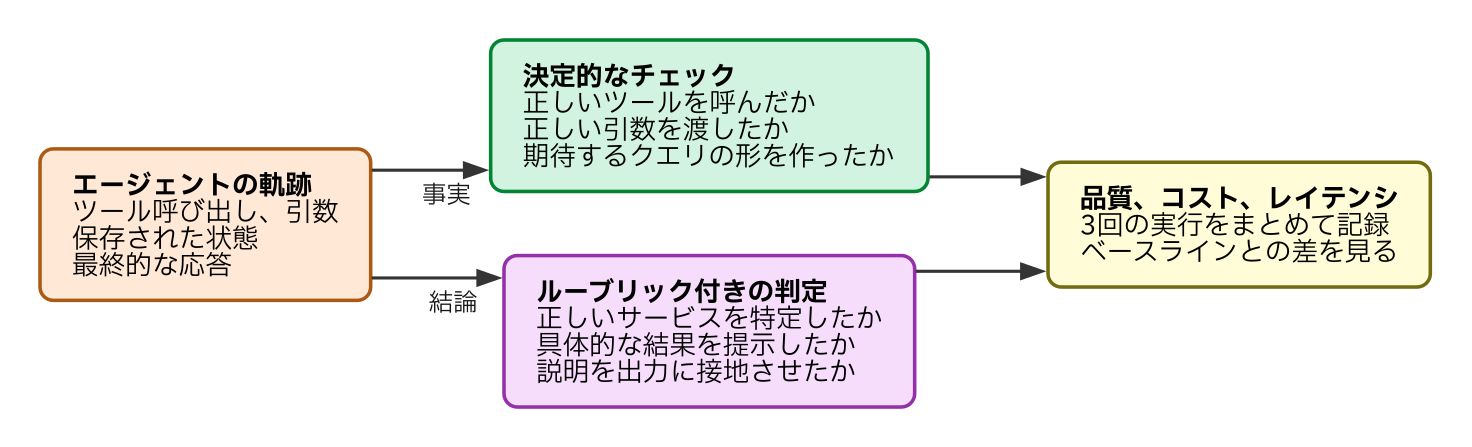
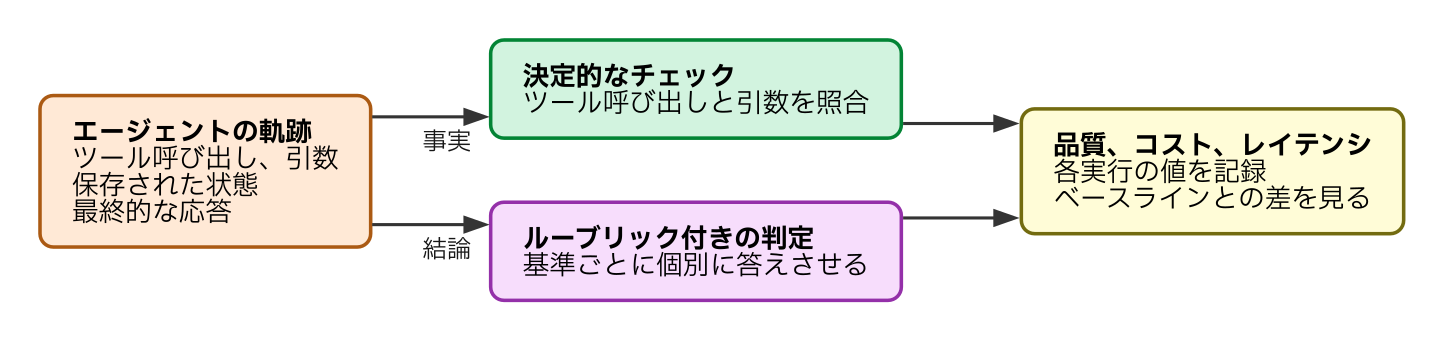
fix(articles): 査読で挙がった軽微な指摘を反映する
R-14 複数段落の引用を原文の段落で分割。R-15 gcx記事を素材4本として本文から帰属。
R-16 直訳語を平易化(接地/正本/判定不能/有界/継続点)。R-17 規範の禁止語を置換
(帰結/参照点/既定/推論エンジン)。R-18 結論型見出し3件を体言止めへ。
R-19 段落結論の太字ラベル7件を地の文へ。R-20 図のノードを規範の1〜2行へ縮め、
tool-facade を縦組みにして1898px→936px。R-21 3回を固定回数に見せる記述を一般化。
R-22 Evaluate/Learn/Change を3段落に分割、重複と締めの言い直しを圧縮。

記事1は9,232字、記事2は18,525字。引用23件すべて逐語一致。図5枚は機械チェックと目視を通過。

Changed region(s): [[0.0, 0.0588, 0.9965, 0.9412]]

diff --git a/articles/20261002-what-made-agents-better.md b/articles/20261002-what-made-agents-better.md
@@ -14,9 +14,9 @@ published: false
 
 前編は Assistant 全般の評価ループを扱いました。この記事はインシデント調査用の評価事例を扱います。評価の考え方は共通しますが、同じ評価基盤やデータセットだと公開資料から確認できるわけではありません。
 
-素材にするのは Grafana Labs のエンジニアが公式のエンジニアリングブログに書いた3本の記事です。[Enter the arena](https://medium.com/grafana-labs/enter-the-arena-evaluating-and-improving-grafana-assistant-investigations-against-real-incidents-d0a813404ad2)（William Dumont、2026年7月15日）、[Inside the harness](https://medium.com/grafana-labs/inside-the-harness-how-grafana-assistant-investigates-incidents-9a982b8ff01d)（Alexander Sniffin、2026年6月9日）、[Progressive tool discovery](https://medium.com/grafana-labs/progressive-tool-discovery-battling-tool-overload-in-ai-agents-418fb0b4cd76)（Cyril Tovena、2026年8月27日）。加えて、公開されているベンチマークのリーダーボードを筆者が集計した結果を1つ挟みます。
+主に参照するのは、Grafana Labs のエンジニアが公式のエンジニアリングブログに書いた4本の署名記事です。[Enter the arena](https://medium.com/grafana-labs/enter-the-arena-evaluating-and-improving-grafana-assistant-investigations-against-real-incidents-d0a813404ad2)（William Dumont、2026年7月15日）、[Inside the harness](https://medium.com/grafana-labs/inside-the-harness-how-grafana-assistant-investigates-incidents-9a982b8ff01d)（Alexander Sniffin、2026年6月9日）、[Progressive tool discovery](https://medium.com/grafana-labs/progressive-tool-discovery-battling-tool-overload-in-ai-agents-418fb0b4cd76)（Cyril Tovena、2026年8月27日）、[CLIs in the age of agents](https://medium.com/grafana-labs/clis-in-the-age-of-agents-how-we-designed-gcx-cdfca8954b30)（Ward Bekker、2026年7月28日）。加えて、公開されているベンチマークのリーダーボードを筆者が集計した結果を1つ挟みます。
 
-## 合成環境は通り続けた
+## 合成環境と実インシデントの差
 
 [Grafana Assistant Investigations](https://grafana.com/docs/grafana-cloud/machine-learning/assistant/) は、インシデントの根本原因の候補を出すエージェントです。発火したアラートを読み、テレメトリーを問い合わせ、見つけたものを相関させ、原因を提案します。オンコールのエンジニアがやることと同じ手順です。
 
@@ -70,11 +70,11 @@ published: false
 
 **ツールセット**。全部のツールを与えた状態から、個別のツールを意図的に取り除いていきます。これで分かるのは、そのツールが有用かどうかだけではありません。エージェントがそのツールに過度に依存していないか、それとも他の証拠源を組み合わせて適応できるのかが見えます。メトリクスのツールを取り上げると、エージェントはログとトレースとプロファイルに頼らざるを得なくなり、単一の信号にどれだけ依存していたかが表に出ます。
 
-**モデル**。背後のモデルを小さく速いものから大きく高性能なものまで変え、それぞれに与える思考の予算も変えます。これで、より強い推論エンジンを与えたことによる改善と、より良いプロンプトや道具立てによる改善を切り分けられます。
+**モデル**。背後のモデルを小さく速いものから大きく高性能なものまで変え、それぞれに与える思考の予算も変えます。これで、より強い推論能力を与えたことによる改善と、より良いプロンプトや道具立てによる改善を切り分けられます。
 
 **プロンプト**。システムプロンプトとツールごとの説明文の改訂版を並べて比較します。小さな言い回しの変更が、エージェントの振る舞いに驚くほど大きな影響を与えることがあります。どのツールを選ぶか、どれだけ自信を持って結論を引き出すか、手元の証拠が不十分だといつ判断するか。同じインシデントに対してプロンプトの変種を走らせれば、その振る舞いの変化を直接測れます。
 
-**外部のエージェント**。参照点として、汎用のコーディングエージェントを3つの経路で Grafana Cloud に接続して参加させています。[Grafana MCP サーバー](https://github.com/grafana/mcp-grafana)経由、[gcx](https://github.com/grafana/gcx) コマンドラインツール経由、そしてHTTPを直接呼ぶ経路です。
+**外部のエージェント**。比較の基準として、汎用のコーディングエージェントを3つの経路で Grafana Cloud に接続して参加させています。[Grafana MCP サーバー](https://github.com/grafana/mcp-grafana)経由、[gcx](https://github.com/grafana/gcx) コマンドラインツール経由、そしてHTTPを直接呼ぶ経路です。
 
 この最後の1つの位置づけが率直です。外部のエージェントは有用な上限を与える。そのどれかが自社のエージェントが見落としたものを見つけたなら、その差はモデルにあるのではなく自分たちのビルドにある、と書かれています。
 
@@ -90,17 +90,17 @@ published: false
 
 何が見つかったのか、具体的な発見が4つ挙げられています。
 
-**出発点が間違っていた**。ほとんどの調査は発火したアラートから始まりますが、初期のビルドはアラートの名前から問題を推測しようとしていました。その推測が以降のすべての方向を決めてしまい、しかもしばしば間違っています。そこでアラートの定義を取得して、実際にそれを発火させたクエリを読むツールを追加しました。調査がラベルではなく発火条件から始まるようになります。
+ほとんどの調査は発火したアラートから始まりますが、初期のビルドはアラートの名前から問題を推測しようとしていました。その推測が以降のすべての方向を決めてしまい、しかもしばしば間違っています。そこでアラートの定義を取得して、実際にそれを発火させたクエリを読むツールを追加しました。調査がラベルではなく発火条件から始まるようになります。
 
-**ほとんど呼ばれないツールがあった**。あるクエリのツールがほぼ呼ばれていませんでした。調べると、その使用ガイドが別のツールからコピーされたまま適応されておらず、間違ったクエリ言語を説明していたのです。エージェントは矛盾した仕様を受け取り、そのツールを避けていました。ガイドを直すと、その種類の信号が調査に戻ってきました。記事はここから一般化を引き出しています。
+あるクエリのツールがほぼ呼ばれていませんでした。調べると、その使用ガイドが別のツールからコピーされたまま適応されておらず、間違ったクエリ言語を説明していたのです。エージェントは矛盾した仕様を受け取り、そのツールを避けていました。ガイドを直すと、その種類の信号が調査に戻ってきました。記事はここから一般化を引き出しています。
 
 > Much of the work in a tool is the schema and the description, not the handler.
 >
 > （ツールにおける仕事の多くは、スキーマと説明文であって、ハンドラではない）
 
-**取得したコンテキストが多すぎた**。エージェントはインフラの背景情報を検索で引いてきますが、その生の結果は大きく、関連度も不均一でした。全部を調査に流し込むとトークンを消費し、さらに悪いことに、無関係な事実がエージェントを本筋から逸らします。対策として、小さく安いモデルの呼び出しを1つ挟み、取得した記憶を現在のインシデントに関連する分だけに絞り込んでから主たるコンテキストへ渡すようにしました。トークンの消費が下がり、コンテキストの汚染も減って、調査が安定しました。
+エージェントはインフラの背景情報を検索で引いてきますが、その生の結果は大きく、関連度も不均一でした。全部を調査に流し込むとトークンを消費し、さらに悪いことに、無関係な事実がエージェントを本筋から逸らします。対策として、小さく安いモデルの呼び出しを1つ挟み、取得した記憶を現在のインシデントに関連する分だけに絞り込んでから主たるコンテキストへ渡すようにしました。トークンの消費が下がり、コンテキストの汚染も減って、調査が安定しました。
 
-**部分的なデータで無根拠な結論を出していた**。ケースに欠損があると、弱いビルドはデータが支持しない断定でそれを埋める傾向がありました。結論できないことを述べるようエージェントに求めるプロンプトの変更と、その振る舞いを評価するグレーダーの組み合わせで軽減しましたが、消えてはいません。
+ケースに欠損があると、弱いビルドはデータが支持しない断定でそれを埋める傾向がありました。結論できないことを述べるようエージェントに求めるプロンプトの変更と、その振る舞いを評価するグレーダーの組み合わせで軽減しましたが、消えてはいません。
 
 そして冒頭の主張を補強する観察が置かれています。
 
@@ -136,7 +136,7 @@ Opus 4.7 と 4.6 では、推論を切ったほうが一貫性が高く、しか
 
 この公開ベンチマークの掲載結果では、推論を高にしたほうが Pass^3 の低いモデルも、高いモデルもありました。推論設定ごとに品質と費用を測る必要があります。ただし、この比較からモデルの大きさの効果や、前節で見たツールとプロンプトの変更の寄与は分かりません。
 
-## 指示ではなく構造で縛る
+## 指示ではなく構造による強制
 
 ツールとプロンプトが改善に寄与すると分かったら、次はそれを動かすハーネスの設計です。ここからは2026年6月の記事に戻って、Assistant Investigations のハーネスを書いたエンジニアの説明を見ます。
 
@@ -150,21 +150,25 @@ Opus 4.7 と 4.6 では、推論を切ったほうが一貫性が高く、しか
 
 対策として選ばれた役割分担が、この節の要点になります。モデルが推論を行い、ハーネスがループを所有する。ハーネスが握るのは、何がコンテキストに注入されるか、いつ状態が変化するか、いつモデルが結論を出してよいか、そしてコンテキストウィンドウが埋まったときに何が起きるかです。
 
-具体的な仕掛けを見ます。ほとんどのエージェントのループは長いツール呼び出しの連鎖になりますが、Assistant Investigations では仮説が第一級の状態として扱われます。各仮説は結論のゲートを通って解決されなければならず、解決とは4つの結果のいずれかを意味します。根本原因、症状、反証済み、判定不能です。モデルが早く切り上げようとすると、ハーネスが押し返します。
+具体的な仕掛けを見ます。ほとんどのエージェントのループは長いツール呼び出しの連鎖になりますが、Assistant Investigations では仮説が第一級の状態として扱われます。各仮説は結論のゲートを通って解決されなければならず、解決とは4つの状態のいずれかに至ることを意味します。根本原因、症状、反証済み、そして調査を進められない状態（blocked）です。モデルが早く切り上げようとすると、ハーネスが押し返します。
 
 結論のゲートに加えて、調査を確定させる前に通る条件付きのゲートがあります。
 
-**先の発見は捨てられない**。レビュアーが会話の全体を走査して、主たる仮説に矛盾する発見がないか探します。矛盾する証拠があれば、結論はそれをより強い何かで反駁するか、取り込まなければなりません。
+レビュアーが会話の全体を走査して、主たる仮説に矛盾する発見がないか探します。先の発見は捨てられません。矛盾する証拠があれば、結論はそれをより強い何かで反駁するか、取り込まなければなりません。
 
-**「Xが壊れている」は根本原因ではなく継続点である**。ハーネスは引き金を要求します。デプロイ、設定の変更、資格情報の期限切れ、容量の枯渇、依存先の障害。あるいは、どこから先が未解決なのかを明示的に示すこと。引き金を特定できない結論も、範囲を明示すれば通ります。
+「Xが壊れている」と分かった段階では、まだ根本原因に達していないものとして扱い、ハーネスが引き金を要求します。デプロイ、設定の変更、資格情報の期限切れ、容量の枯渇、依存先の障害。あるいは、どこから先が未解決なのかを明示的に示すこと。引き金を特定できない結論も、範囲を明示すれば通ります。
 
-**1つのインシデントに複数の原因があり得る**。証拠の強さで順位付けし、単一の勝者を強制しない。
+1つのインシデントに複数の原因がある場合には、証拠の強さで順位付けし、単一の勝者を強制しません。
 
 この強制の形が、記事の中心的な主張です。
 
-> The enforcement is structural rather than instructional. The plan, the hypothesis statuses, the conclusion gate, and the reviewer pass are not optional — they’re code paths it has to traverse. A reminder can soften under context pressure, but a code path cannot.
+> The enforcement is structural rather than instructional. The plan, the hypothesis statuses, the conclusion gate, and the reviewer pass are not optional — they’re code paths it has to traverse.
 >
-> （強制は指示によるものではなく構造によるものである。計画、仮説の状態、結論のゲート、レビュアーの走査は任意ではなく、通らなければならないコードパスである。リマインダーはコンテキストの圧力の下で弱まりうるが、コードパスは弱まらない）
+> （強制は指示によるものではなく構造によるものである。計画、仮説の状態、結論のゲート、レビュアーの走査は任意ではなく、通らなければならないコードパスである）
+>
+> A reminder can soften under context pressure, but a code path cannot.
+>
+> （リマインダーはコンテキストの圧力の下で弱まりうるが、コードパスは弱まらない）
 
 レビュアーがこの考え方の最も分かりやすい例です。独立した推論のステップとして、それ自身のプロンプトとゲートを持って走ります。Sniffin はこれを [Reflexion](https://arxiv.org/abs/2303.11366) に関連付けています。Reflexion は、評価に基づく反省を言語化してメモリに保存し、次の試行で利用する手法です。ここでのレビュアーとの共通点は評価と生成を分けることであり、論文がこのハーネスの効果を直接検証したわけではありません。
 
@@ -180,7 +184,7 @@ Opus 4.7 と 4.6 では、推論を切ったほうが一貫性が高く、しか
 
 ハーネスはモデルの推論を過度に制約するわけではありません。制約するのは、何をもって調査が完了したと認めるかの基準だけです。クエリを選び、結果を読み、結論を書くのはモデルの側で、ハーネスはゲートを通っていない結論を受け付けないだけ。構造は硬く見えますが、実際にはモデルを最初のもっともらしい答えで止まらせず、根本原因の分析へ深く掘らせる方向に働いた、と述べられています。
 
-## ツールの説明文がツールの仕事
+## ツールの説明文と段階的な発見
 
 「ツールとプロンプトによる改善」の節では、誤った使用ガイドを直した例を見ました。ここからは、ツールの説明を必要なときに読み込ませる別の設計例を扱います。説明を実際の能力に合わせるという点は共通しますが、前の失敗からこの設計が生まれたと原文に書かれているわけではありません。
 
@@ -206,7 +210,7 @@ Assistant が扱える範囲は広く、Prometheus、Loki、Tempo、アラート
 
 別に書いた説明が実装から離れることを避ける設計です。ただし、元の説明そのものの正しさは引き続き検証する必要があります。
 
-発見の面が生きたシステムに接地していることも重視されています。原文が示す処理の順序はこうです。
+どの能力を見せるかを、実際に動いているシステムの状態に合わせることも重視されています。原文が示す処理の順序はこうです。
 
 ```text
 registered tools
@@ -224,7 +228,7 @@ registered tools
 
 この方式が失敗する条件も書かれています。プロンプトのトークンを減らしても、操作に辿り着くまでの探索が長くなれば失敗である、と。そのため追加のモデル呼び出し、最初の実操作までの時間、誤りからの修正率、発見にかかる費用、コンテキスト全体の増加も測っています。
 
-同じ観察が、コマンドラインツールの設計にも現れています。gcx の出発点は社内のオフサイトでした。エンジニアが集まった部屋で、それぞれのAIエージェントを前世代の Grafana CLI に向けて放し、働かせてみたのです。
+Ward Bekker の [CLIs in the age of agents](https://medium.com/grafana-labs/clis-in-the-age-of-agents-how-we-designed-gcx-cdfca8954b30) にも、エージェントがツールを誤って使った観察と、その対策が記されています。gcx の出発点は社内のオフサイトでした。エンジニアが集まった部屋で、それぞれのAIエージェントを前世代の Grafana CLI に向けて放し、働かせてみたのです。
 
 観察された振る舞いが並んでいます。既に失敗したコマンドを再試行する。ヘルプを読む代わりに、存在しないフラグへ自信をもって手を伸ばす。そして自分自身のコンテキストウィンドウを出力で溢れさせ、ツールが単に教えてくれたはずのことを下手に再発見するためにトークンを燃やす。
 
@@ -234,13 +238,13 @@ registered tools
 
 対策として入った仕掛けは、どれもエージェントの読み方を前提にしています。`gcx help-tree` はコマンドの階層全体を圧縮した木として出力し、そのままエージェントのコンテキストウィンドウへ注入できます。この木には人間には読みにくいがエージェントには行動しやすいメタデータが入っています。`gcx api` という生のAPIへの逃げ道には、上のような迷走を防ぐための注釈が付き、専用のコマンドがあるならそちらを優先するようエージェントに伝えます。可用性の注釈も同じ働きをします。OSSのインスタンスに向けられたエージェントは、Grafana Cloud 専用のコマンドが動かないことを、失敗して確かめる前に知れます。
 
-`gcx commands` はすべてのコマンドを1つの機械可読な文書として列挙し、トークン費用の注釈（小、中、大）を含みます。どのコマンドが有界な読み取りを返し、どれがコンテキストを溢れさせうるかを、実行前にエージェントへ伝えるためです。古くなったメタデータはエージェントを自信のある行き止まりへ送るので、`gcx commands --validate` が目録を生きた Grafana API の探索に対して検証します。
+`gcx commands` はすべてのコマンドを1つの機械可読な文書として列挙し、トークン費用の注釈（小、中、大）を含みます。どのコマンドが上限のある量を返し、どれがコンテキストを溢れさせうるかを、実行前にエージェントへ伝えるためです。古くなったメタデータはエージェントを自信のある行き止まりへ送るので、`gcx commands --validate` が目録を生きた Grafana API の探索に対して検証します。
 
 エラーの設計も同じ思想です。人間はエラーを読み、ため息をついて、何を変えるべきか考えます。エージェントにとって、エラーメッセージは回復の計画そのものです。曖昧なエラーは、エージェントが誤った方向へ進む確率を上げます。そこで agent モードでは、gcx の失敗はすべて構造化されたエラーオブジェクトとして標準出力に出て、具体的な復旧の提案を伴います。
 
 提案は実行可能なコマンドです。人間向けのツールなら設定を確認するよう伝えるところを、gcx は `gcx config view` と書いてエージェントに実行できるコマンドを渡します。エージェントは命令に対して動くからです。要約は固定された語彙から選ばれ、終了コードは0から6までの安定した分類に従います。成功、一般、使用法、認証、部分的な失敗、キャンセル、バージョン非互換。エージェントは英語を解析せずに失敗の種類で分岐できます。
 
-## 複雑な設計はほとんど負けた
+## 単純な設計と複雑な設計の比較
 
 ハーネスには調整できる面がたくさんあります。プロンプト、誘導のルール、圧縮の戦略、ツールの定義。それらを感覚で調整することはできない、と記事は書いています。そこで評価、ベンチマーク、最適化の3つに分けて取り組んでいます。
 
@@ -260,15 +264,15 @@ registered tools
 
 > The pattern repeated often enough that we treat it as the default: if a more complex design doesn’t show a measurable win, the simple one ships.
 >
-> （このパターンが繰り返し現れたので、既定の方針として扱っている。より複雑な設計が測定可能な勝ちを示さないなら、単純な方を出荷する）
+> （このパターンが繰り返し現れたので、原則として扱っている。より複雑な設計が測定可能な勝ちを示さないなら、単純な方を出荷する）
 
-最適化では、評価データセットを使ってプロンプトとハーネスの両方を改善する周回を作りました。変更を隔離して行い、訓練用の集合で走らせ、改善したならホールドアウトで走らせて、昇格するか後退するかを決めます。ここで得た原則が2つ挙げられています。構造による強制は指示に勝る。そして訓練とホールドアウトを分けること。分けないと、気づかないうちに自分の評価スイートへ過剰適合します。
+最適化では、評価データセットを使ってプロンプトとハーネスの両方を改善する周回を作りました。変更を隔離して行い、訓練用の集合で走らせ、改善したならホールドアウトで走らせて、昇格するか後退するかを決めます。ここで訓練とホールドアウトを分ける理由が述べられています。分けないと、気づかないうちに自分の評価スイートへ過剰適合します。
 
-過剰適合の帰結も具体的です。
+過剰適合によって何が起きるかも具体的に書かれています。
 
 > a tight research loop often leads to overfitting, which results in a harness that scores beautifully on the cases you measured and fails on the next incident. The accuracy gap is rarely the prompt; it’s missing context.
 >
-> （密な研究の周回はしばしば過剰適合を招き、測ったケースでは美しくスコアが出て、次のインシデントでは失敗するハーネスができる。精度の差はプロンプトであることは稀で、足りないコンテキストである）
+> （密な研究の周回はしばしば過剰適合を招き、測ったケースでは美しくスコアが出て、次のインシデントでは失敗するハーネスができる。精度の差がプロンプトに起因することは稀で、コンテキストの不足に起因する）
 
 そこでの選択が、この記事全体の姿勢をよく表しています。一般化しないルールでスコアの1パーセントポイントの改善を追うより、ハーネスの制約を緩めに保ち、利用者が拡張できる仕組み（スキル、ルール、MCPサーバー）に投資するほうを選ぶ、と書かれています。
 
@@ -280,11 +284,7 @@ registered tools
 
 ## 何を測るか
 
-ここまでを並べ直します。
-
-合成環境で作った評価は通り続けながら、実インシデントでは重要な部分で苦戦していました。実インシデントを題材にして一度に1つの因子を変えたところ、品質への寄与はツールとプロンプトのほうが、背後のモデルの差し替えより大きかった。別の公開ベンチマークで推論設定ごとの掲載値を並べると、推論を切ったほうが一貫性が高く安い構成もあり、その逆もありました。ハーネスの側では、プロンプトに書いた「必ず〜せよ」ではなく、通らなければならないコードパスが振る舞いを縛りました。そして複雑な設計は、同じ制約の下でたいてい単純な設計に負けました。
-
-どれも、測ったから言えることです。
+社内の実インシデントを使った評価では、ツールの説明や利用できる証拠を変えた影響を比較し、結論を急ぐ失敗や複雑な設計の遅さを確認できました。どの変更を採用するかは、評価するタスクと、品質と費用と時間の条件を揃えて決めています。
 
 自分のエージェントで同じことを言おうとするなら、まず1つのタスクについて成功条件を書き、その条件を確かめる証拠を決めるところから始められます。保存された状態やクエリの結果で成果を確かめ、失敗したときはツール呼び出しの軌跡を読んで原因を調べる。前編で見たように、採点するのは結果であって経路ではありません。軌跡を読むのは、答えを裏付ける証拠があるかどうかと、失敗の理由を知るためです。
 

diff --git a/articles/20260929-agent-eval-loop.md b/articles/20260929-agent-eval-loop.md
@@ -36,9 +36,9 @@ Grafana Cloud には [Grafana Assistant](https://grafana.com/docs/grafana-cloud/
 
 ## シナリオを仕様として置く
 
-軌跡を見るために、記事のチームはプロンプトを正本として扱うのをやめました。代わりに書いたのがシナリオとグレーダーです。
+軌跡を見るために、記事のチームはプロンプトを唯一の基準として扱うのをやめました。代わりに書いたのがシナリオとグレーダーです。
 
-**シナリオ**は現実のユーザーのワークフローと、成功が何を意味するかを記述します。**グレーダー**は、その成功が実際に起きたかを判定します。判定の根拠に使うのは、ツールの引数、クエリの構造、保存された Grafana の状態、ナビゲーションの目的地、環境から取れる接地した事実です。シナリオが望ましい振る舞いを定義し、グレーダーがそれを達成できたかを教えます。
+**シナリオ**は現実のユーザーのワークフローと、成功が何を意味するかを記述します。**グレーダー**は、その成功が実際に起きたかを判定します。判定の根拠に使うのは、ツールの引数、クエリの構造、保存された Grafana の状態、ナビゲーションの目的地、環境から実際に取得できる事実です。シナリオが望ましい振る舞いを定義し、グレーダーがそれを達成できたかを教えます。
 
 この分離が意味を持つ理由は、原文の一文に凝縮されています。
 
@@ -61,7 +61,7 @@ Grafana Cloud には [Grafana Assistant](https://grafana.com/docs/grafana-cloud/
 | 対象 | 方法 | 問いの例 |
 |---|---|---|
 | 構造化された出力 | 決定的な採点 | 正しいツールを呼んだか。正しい引数を渡したか。期待するクエリの形やパネルのスキーマを作ったか |
-| より高次の基準 | ルーブリック付きの LLM-as-judge | 正しいサービスを特定したか。具体的な結果を提示したか。説明をタスクの出力に接地させたか |
+| より高次の基準 | ルーブリック付きの LLM-as-judge | 正しいサービスを特定したか。具体的な結果を提示したか。説明をタスクの出力に基づかせたか |
 
 決定的なチェックは速く、再現でき、デバッグしやすい。失敗したとき、たいてい理由がそのまま分かります。
 
@@ -77,9 +77,9 @@ Grafana Cloud には [Grafana Assistant](https://grafana.com/docs/grafana-cloud/
 
 この使い分けは、記事の中で教訓として一文にまとめられています。事実には構造的なチェックを、結論には意味的なチェックを。
 
-可能なかぎり、ユーザーが実際に体験する結果を評価しようとしている点も見ておきたいところです。保存された Grafana の状態、クエリの構造、パネルのスキーマ、ナビゲーションの目的地、環境から取れる事実。正確な言い回しは、最適化する対象としてはたいてい最も面白くない部分だと書かれています。グレーダーを正本となる状態や生きた証拠に固定できるほど、判定は信頼できて弁別力を持つようになります。
+可能なかぎり、ユーザーが実際に体験する結果を評価しようとしている点も見ておきたいところです。保存された Grafana の状態、クエリの構造、パネルのスキーマ、ナビゲーションの目的地、環境から取れる事実。正確な言い回しは、最適化する対象としてはたいてい最も面白くない部分だと書かれています。グレーダーを、判定の基準となる状態や実際に取得した証拠に結び付けられるほど、判定は信頼できて弁別力を持つようになります。
 
-## 3回走らせる理由
+## 複数回走らせる理由
 
 シナリオは複数回実行します。
 
@@ -125,7 +125,13 @@ Grafana Cloud には [Grafana Assistant](https://grafana.com/docs/grafana-cloud/
 
 手作業での反復が破綻したのはこの段でした。システムが十分に大きくなると、ベンチマークは人間が効率的に消化して行動に移せる量を超える証拠を生みます。トランスクリプト、トレース、グレーダーの出力、区分ごとの差分、コストの変動、繰り返される失敗、不安定なシナリオ、脆いグレーダー。すべて読んで手で推論し通す方法は、そこで規模に対して成り立たなくなります。
 
-そこで記事のチームは、周回を Evaluate、Learn、Change の3段に分けて、Learn の段にAIコーディングエージェントを入れました。Evaluate はベンチマークの実行そのもので、トランスクリプト、ツールの軌跡、グレーダーの出力、コスト、レイテンシ、能力ごとの結果を集めます。これが生の証拠です。Learn では、コーディングエージェントが失敗した実行と成功した実行を分析し、繰り返し現れるパターンを探し、弱いグレーダーと脆いアサーションを特定し、システムが実際に変化した区分を浮かび上がらせます。Change では、その発見を具体的な更新に変えます。ルーブリックを締める、弱い基準を置き換える、誤った理由で合否が出ているシナリオを直す、といったグレーダー側の較正のこともあります。指示を更新する、ツールの定義を変える、ルーティングを調整する、バグを直す、といったエージェント側の改善のこともあります。多くの場合は両方です。
+そこで記事のチームは、周回を Evaluate、Learn、Change の3段に分けて、Learn の段にAIコーディングエージェントを入れました。
+
+Evaluate はベンチマークの実行そのもので、トランスクリプト、ツールの軌跡、グレーダーの出力、コスト、レイテンシ、能力ごとの結果を集めます。これが生の証拠です。
+
+Learn では、コーディングエージェントが失敗した実行と成功した実行を分析し、繰り返し現れるパターンを探し、弱いグレーダーと脆いアサーションを特定し、システムが実際に変化した区分を浮かび上がらせます。
+
+Change では、その発見を具体的な更新に変えます。ルーブリックを締める、弱い基準を置き換える、誤った理由で合否が出ているシナリオを直す、といったグレーダー側の較正のこともあります。指示を更新する、ツールの定義を変える、ルーティングを調整する、バグを直す、といったエージェント側の改善のこともあります。多くの場合は両方です。
 
 この関係は一文で定式化されています。
 
@@ -175,7 +181,7 @@ Grafana Cloud には [Grafana Assistant](https://grafana.com/docs/grafana-cloud/
 
 シナリオには成功条件を明示します。その領域に詳しい2人が合否で一致しないなら、そのシナリオはおそらく仕様が足りていません。文脈と、使えるツールと、望む結果を定義します。1つの正確な言い回しに過剰適合させないようにも書かれています。
 
-グレーダーは結果を先に評価します。特定の経路を通ることが方針として要求されるのでなければ、エージェントが別の妥当な方法で正しい結果に到達したことを理由に失敗としません。エージェントは、自分では設計しなかったやり方を見つけることがあります。言い回しを主に検査するグレーダーより、接地した状態や保存された成果物やクエリの構造といった正本となる証拠を見るグレーダーを選びます。
+グレーダーは結果を先に評価します。特定の経路を通ることが方針として要求されるのでなければ、エージェントが別の妥当な方法で正しい結果に到達したことを理由に失敗としません。エージェントは、自分では設計しなかったやり方を見つけることがあります。言い回しを主に検査するグレーダーより、実際に取得した状態や保存された成果物やクエリの構造といった、基準として使える証拠を見るグレーダーを選びます。
 
 品質とコストとレイテンシは一緒に追います。効率の勝ちを、タスクの完遂に何を支払ったか確かめずに祝わないこと。
 
